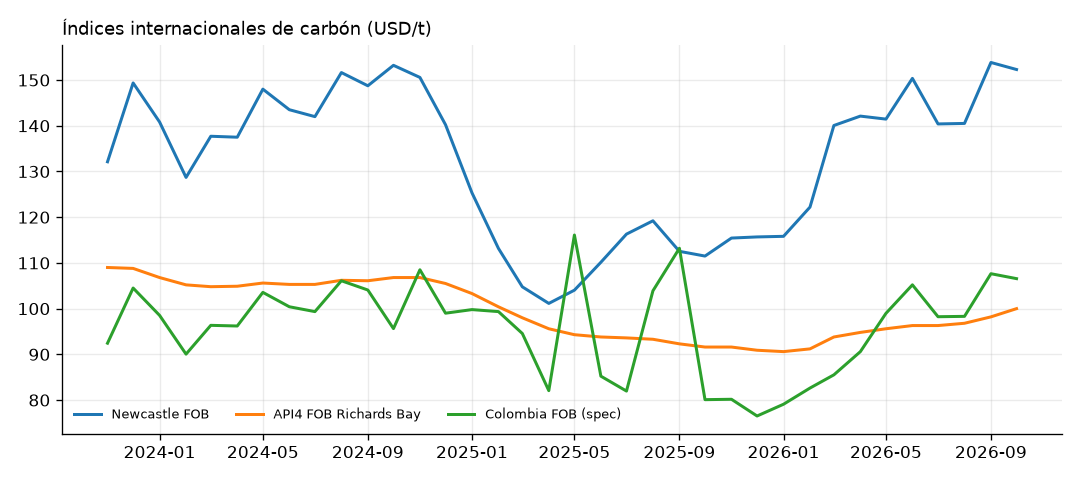
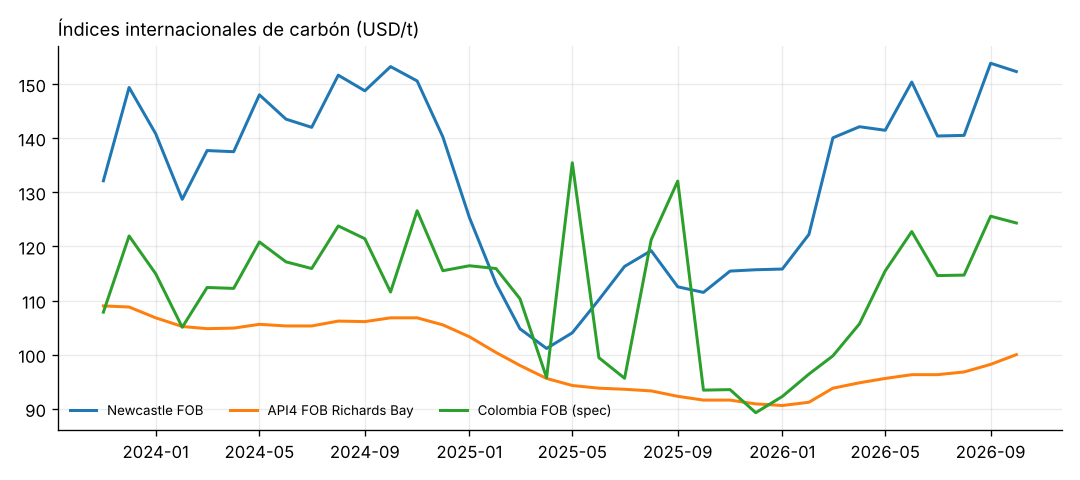
Carbón a 7,000 kcal/kg, el requerimiento de las plantas UNACEM
El FOB Colombia (y con él el CFR Conchán, la conveniencia y la simulación) se expresa a
7,000 kcal/kg: los índices, en base 6,000 kcal/kg, se ajustan por 7,000/6,000.

Claude-Session: https://claude.ai/code/session_01WHhkFnrucjGPJK3g8fcEtm

diff --git a/reportes/carbon/historial/2026-11-17.md b/reportes/carbon/historial/2026-11-17.md
@@ -13,14 +13,14 @@ _Actualizado: 2026-11-17 · Último mes con índice de referencia: 2026-10_
 
 | Concepto | Valor |
 |---|---:|
-| FOB Colombia, spec contrato (USD/t) | 106.56 |
+| FOB Colombia, spec contrato (USD/t) | 124.32 |
 | Flete marítimo Colombia→Conchán (USD/t) | 33.83 |
-| CFR Conchán (USD/t) | 140.39 |
-| CFR Conchán (PEN/t) | 483.35 |
+| CFR Conchán (USD/t) | 158.15 |
+| CFR Conchán (PEN/t) | 544.49 |
 | Referencia CFR (USD/t) | — |
 | Fuente del FOB | estimado: Newcastle × ratio Colombia/Newcastle |
 
-Spec 6000 kcal/kg NAR. Ratio Colombia/API2: 0.850 (valor por defecto); Colombia/Newcastle: 0.700 (calibrado con Comtrade). Factor de calibración del flete: 1.16.
+Spec 7000 kcal/kg NAR. Ratio Colombia/API2: 0.850 (valor por defecto); Colombia/Newcastle: 0.700 (calibrado con Comtrade). Factor de calibración del flete: 1.16.
 
 ## Escoria granulada de Japón: FOB y CFR Conchán
 
@@ -39,10 +39,10 @@ Spec 6000 kcal/kg NAR. Ratio Colombia/API2: 0.850 (valor por defecto); Colombia/
 |---|---|---:|---:|---:|---:|---:|---|---:|
 | Newcastle FOB (USD/t) | 2026-10 | **152.30** | -1.0% | +36.6% | 148.88 | 135.85 | 101.14 – 153.84 | 1.5 |
 | API4 FOB Richards Bay (USD/t) | 2026-10 | **100.00** | +1.8% | +9.2% | 98.33 | 94.67 | 90.60 – 106.80 | 0.9 |
-| Colombia FOB, spec contrato (USD/t) | 2026-10 | **106.56** | -1.0% | +33.0% | 104.17 | 92.45 | 76.52 – 116.10 | 1.0 |
+| Colombia FOB, spec contrato (USD/t) | 2026-10 | **124.32** | -1.0% | +33.0% | 121.53 | 107.86 | 89.27 – 135.45 | 1.0 |
 | Flete Colombia→Conchán (USD/t) | 2026-10 | **33.83** | +3.8% | +34.1% | 31.96 | 29.21 | 24.87 – 33.83 | 2.2 |
-| CFR Conchán (USD/t) | 2026-10 | **140.39** | +0.1% | +33.3% | 136.13 | 121.67 | 101.39 – 141.31 | 1.4 |
-| CFR Conchán (PEN/t) | 2026-10 | **483.35** | +2.0% | +34.4% | 462.36 | 413.66 | 341.41 – 517.27 | 1.0 |
+| CFR Conchán (USD/t) | 2026-10 | **158.15** | -0.0% | +33.3% | 153.49 | 137.08 | 114.14 – 160.66 | 1.3 |
+| CFR Conchán (PEN/t) | 2026-10 | **544.49** | +1.8% | +34.4% | 521.32 | 466.05 | 384.35 – 588.10 | 1.0 |
 | CIF Perú desde Colombia — Comtrade (USD/t) | 2025-03 | **140.94** | +4.4% | — | 138.11 | 137.05 | 135.04 – 140.94 | — |
 | CIF Perú desde todo origen — Comtrade (USD/t) | 2025-03 | **140.94** | +4.4% | — | 138.11 | 137.05 | 135.04 – 140.94 | — |
 | Escoria FOB Japón (USD/t) | 2026-10 | **6.01** | +0.0% | +21.3% | 6.01 | 6.13 | 2.00 – 10.37 | -0.1 |
@@ -60,8 +60,8 @@ Spec 6000 kcal/kg NAR. Ratio Colombia/API2: 0.850 (valor por defecto); Colombia/
 |---|---|---:|---:|---:|---:|---:|---|---:|
 | Colombia FOB / Newcastle | 2026-10 | **0.700** | +0.0% | -2.6% | 0.700 | 0.680 | 0.611 – 1.116 | -0.5 |
 | Carbón vs Brent (USD/GJ ÷ USD/GJ) | 2026-10 | **0.209** | -8.8% | -30.7% | 0.234 | 0.257 | 0.188 – 0.439 | -1.4 |
-| Flete / CFR | 2026-10 | **0.241** | +3.7% | +0.6% | 0.235 | 0.241 | 0.178 – 0.267 | 0.6 |
-| CFR modelo / CIF Comtrade Perú | 2025-03 | **0.860** | -8.2% | — | 0.906 | 0.925 | 0.860 – 1.000 | — |
+| Flete / CFR | 2026-10 | **0.214** | +3.8% | +0.6% | 0.208 | 0.214 | 0.157 – 0.238 | 0.6 |
+| CFR modelo / CIF Comtrade Perú | 2025-03 | **0.972** | -8.2% | — | 1.024 | 1.046 | 0.972 – 1.134 | — |
 | Participación de Colombia en importaciones de Perú (t) | 2025-03 | **1.000** | +0.0% | — | 1.000 | 1.000 | 1.000 – 1.000 | — |
 | Flete / CFR escoria | 2026-10 | **0.847** | +0.5% | +1.1% | 0.840 | 0.827 | 0.725 – 0.931 | 0.5 |
 | Escoria CFR modelo / CIF Comtrade Perú | 2025-12 | **1.00** | -11.4% | +35.7% | 1.04 | 1.05 | 0.73 – 1.24 | 0.3 |

diff --git a/reportes/carbon/ultimo_reporte.md b/reportes/carbon/ultimo_reporte.md
@@ -13,14 +13,14 @@ _Actualizado: 2026-11-17 · Último mes con índice de referencia: 2026-10_
 
 | Concepto | Valor |
 |---|---:|
-| FOB Colombia, spec contrato (USD/t) | 106.56 |
+| FOB Colombia, spec contrato (USD/t) | 124.32 |
 | Flete marítimo Colombia→Conchán (USD/t) | 33.83 |
-| CFR Conchán (USD/t) | 140.39 |
-| CFR Conchán (PEN/t) | 483.35 |
+| CFR Conchán (USD/t) | 158.15 |
+| CFR Conchán (PEN/t) | 544.49 |
 | Referencia CFR (USD/t) | — |
 | Fuente del FOB | estimado: Newcastle × ratio Colombia/Newcastle |
 
-Spec 6000 kcal/kg NAR. Ratio Colombia/API2: 0.850 (valor por defecto); Colombia/Newcastle: 0.700 (calibrado con Comtrade). Factor de calibración del flete: 1.16.
+Spec 7000 kcal/kg NAR. Ratio Colombia/API2: 0.850 (valor por defecto); Colombia/Newcastle: 0.700 (calibrado con Comtrade). Factor de calibración del flete: 1.16.
 
 ## Escoria granulada de Japón: FOB y CFR Conchán
 
@@ -39,10 +39,10 @@ Spec 6000 kcal/kg NAR. Ratio Colombia/API2: 0.850 (valor por defecto); Colombia/
 |---|---|---:|---:|---:|---:|---:|---|---:|
 | Newcastle FOB (USD/t) | 2026-10 | **152.30** | -1.0% | +36.6% | 148.88 | 135.85 | 101.14 – 153.84 | 1.5 |
 | API4 FOB Richards Bay (USD/t) | 2026-10 | **100.00** | +1.8% | +9.2% | 98.33 | 94.67 | 90.60 – 106.80 | 0.9 |
-| Colombia FOB, spec contrato (USD/t) | 2026-10 | **106.56** | -1.0% | +33.0% | 104.17 | 92.45 | 76.52 – 116.10 | 1.0 |
+| Colombia FOB, spec contrato (USD/t) | 2026-10 | **124.32** | -1.0% | +33.0% | 121.53 | 107.86 | 89.27 – 135.45 | 1.0 |
 | Flete Colombia→Conchán (USD/t) | 2026-10 | **33.83** | +3.8% | +34.1% | 31.96 | 29.21 | 24.87 – 33.83 | 2.2 |
-| CFR Conchán (USD/t) | 2026-10 | **140.39** | +0.1% | +33.3% | 136.13 | 121.67 | 101.39 – 141.31 | 1.4 |
-| CFR Conchán (PEN/t) | 2026-10 | **483.35** | +2.0% | +34.4% | 462.36 | 413.66 | 341.41 – 517.27 | 1.0 |
+| CFR Conchán (USD/t) | 2026-10 | **158.15** | -0.0% | +33.3% | 153.49 | 137.08 | 114.14 – 160.66 | 1.3 |
+| CFR Conchán (PEN/t) | 2026-10 | **544.49** | +1.8% | +34.4% | 521.32 | 466.05 | 384.35 – 588.10 | 1.0 |
 | CIF Perú desde Colombia — Comtrade (USD/t) | 2025-03 | **140.94** | +4.4% | — | 138.11 | 137.05 | 135.04 – 140.94 | — |
 | CIF Perú desde todo origen — Comtrade (USD/t) | 2025-03 | **140.94** | +4.4% | — | 138.11 | 137.05 | 135.04 – 140.94 | — |
 | Escoria FOB Japón (USD/t) | 2026-10 | **6.01** | +0.0% | +21.3% | 6.01 | 6.13 | 2.00 – 10.37 | -0.1 |
@@ -60,8 +60,8 @@ Spec 6000 kcal/kg NAR. Ratio Colombia/API2: 0.850 (valor por defecto); Colombia/
 |---|---|---:|---:|---:|---:|---:|---|---:|
 | Colombia FOB / Newcastle | 2026-10 | **0.700** | +0.0% | -2.6% | 0.700 | 0.680 | 0.611 – 1.116 | -0.5 |
 | Carbón vs Brent (USD/GJ ÷ USD/GJ) | 2026-10 | **0.209** | -8.8% | -30.7% | 0.234 | 0.257 | 0.188 – 0.439 | -1.4 |
-| Flete / CFR | 2026-10 | **0.241** | +3.7% | +0.6% | 0.235 | 0.241 | 0.178 – 0.267 | 0.6 |
-| CFR modelo / CIF Comtrade Perú | 2025-03 | **0.860** | -8.2% | — | 0.906 | 0.925 | 0.860 – 1.000 | — |
+| Flete / CFR | 2026-10 | **0.214** | +3.8% | +0.6% | 0.208 | 0.214 | 0.157 – 0.238 | 0.6 |
+| CFR modelo / CIF Comtrade Perú | 2025-03 | **0.972** | -8.2% | — | 1.024 | 1.046 | 0.972 – 1.134 | — |
 | Participación de Colombia en importaciones de Perú (t) | 2025-03 | **1.000** | +0.0% | — | 1.000 | 1.000 | 1.000 – 1.000 | — |
 | Flete / CFR escoria | 2026-10 | **0.847** | +0.5% | +1.1% | 0.840 | 0.827 | 0.725 – 0.931 | 0.5 |
 | Escoria CFR modelo / CIF Comtrade Perú | 2025-12 | **1.00** | -11.4% | +35.7% | 1.04 | 1.05 | 0.73 – 1.24 | 0.3 |

diff --git a/CLAUDE.md b/CLAUDE.md
@@ -51,7 +51,8 @@ bituminoso de Colombia y escoria granulada de Japón. Tablero: https://elpoppin2
   envía por correo con un Excel con fórmulas (`reportes/promedio-ponderado-conchan-AAAA-MM.xlsx`).
 - **Carbón y escoria:** solo precio **FOB** y **CFR Muelle Conchán** (FOB + flete marítimo). No se
   calcula el costo puesto en planta. Datos públicos (FRED/IMF, Banco Mundial, BCRP, UN Comtrade) desde
-  2018; poder calorífico de referencia 6,000 kcal/kg. Sin referencia de presupuesto por defecto.
+  2018. El carbón se expresa a **7,000 kcal/kg** (lo que requieren las plantas UNACEM): los índices
+  (base 6,000 kcal/kg) se ajustan por 7,000/6,000. Sin referencia de presupuesto por defecto.
 - **Conveniencia de compra:** índice 0-100 (40% posición en 36 meses, 30% frente al promedio de
   12 meses, 30% cambio esperado por la simulación); desde 65 es "Compra conveniente" y se avisa.
 - **Avisos por correo** (cuenta Gmail del proyecto a `AVISO_CORREOS`, secretos `AVISO_*` en GitHub):
